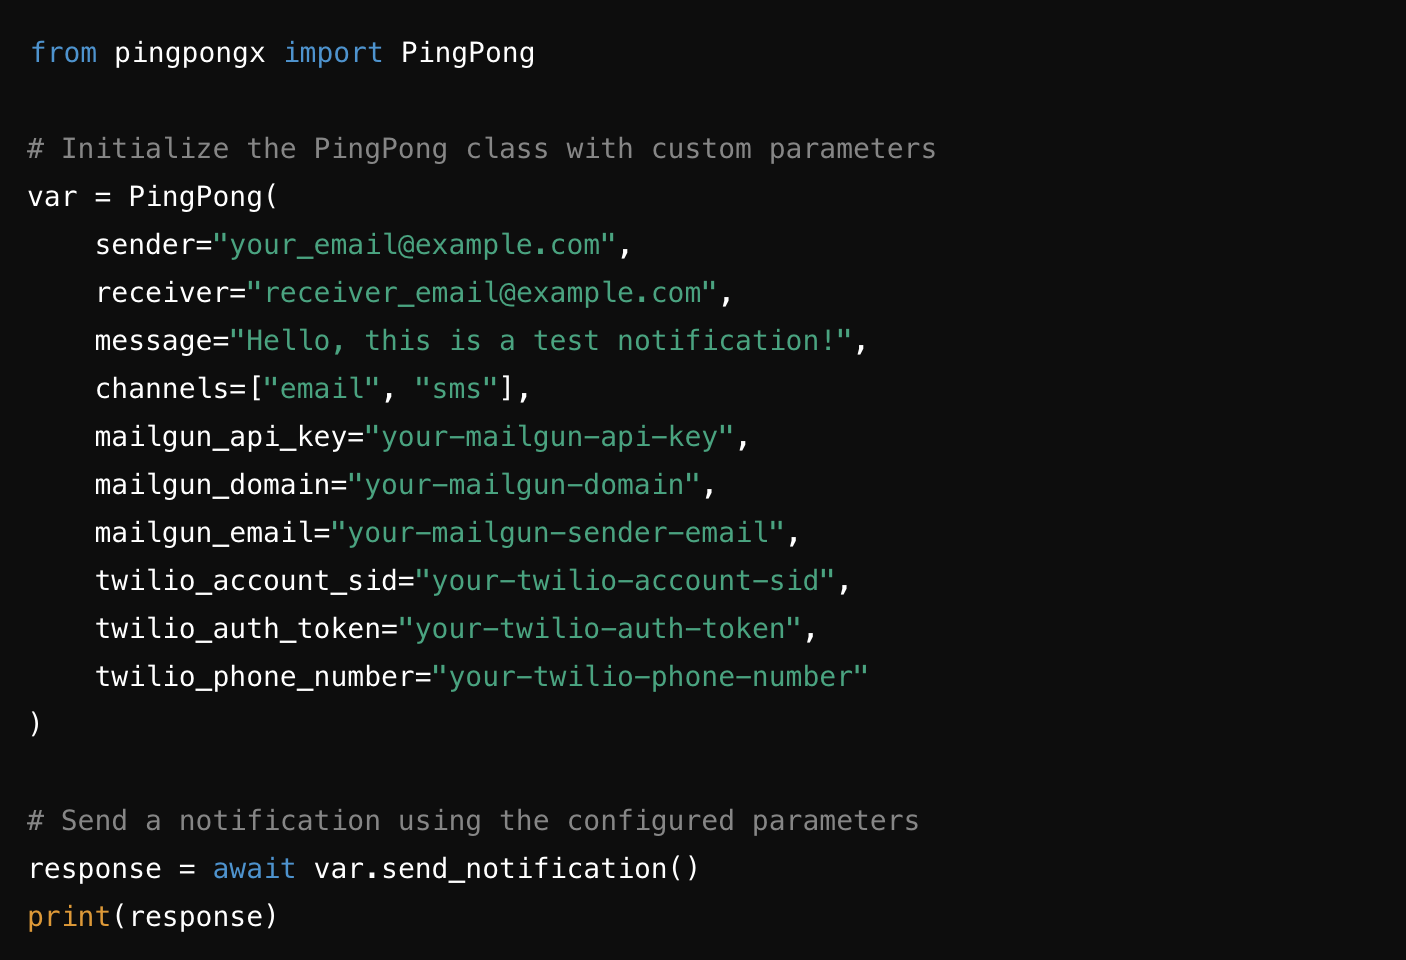
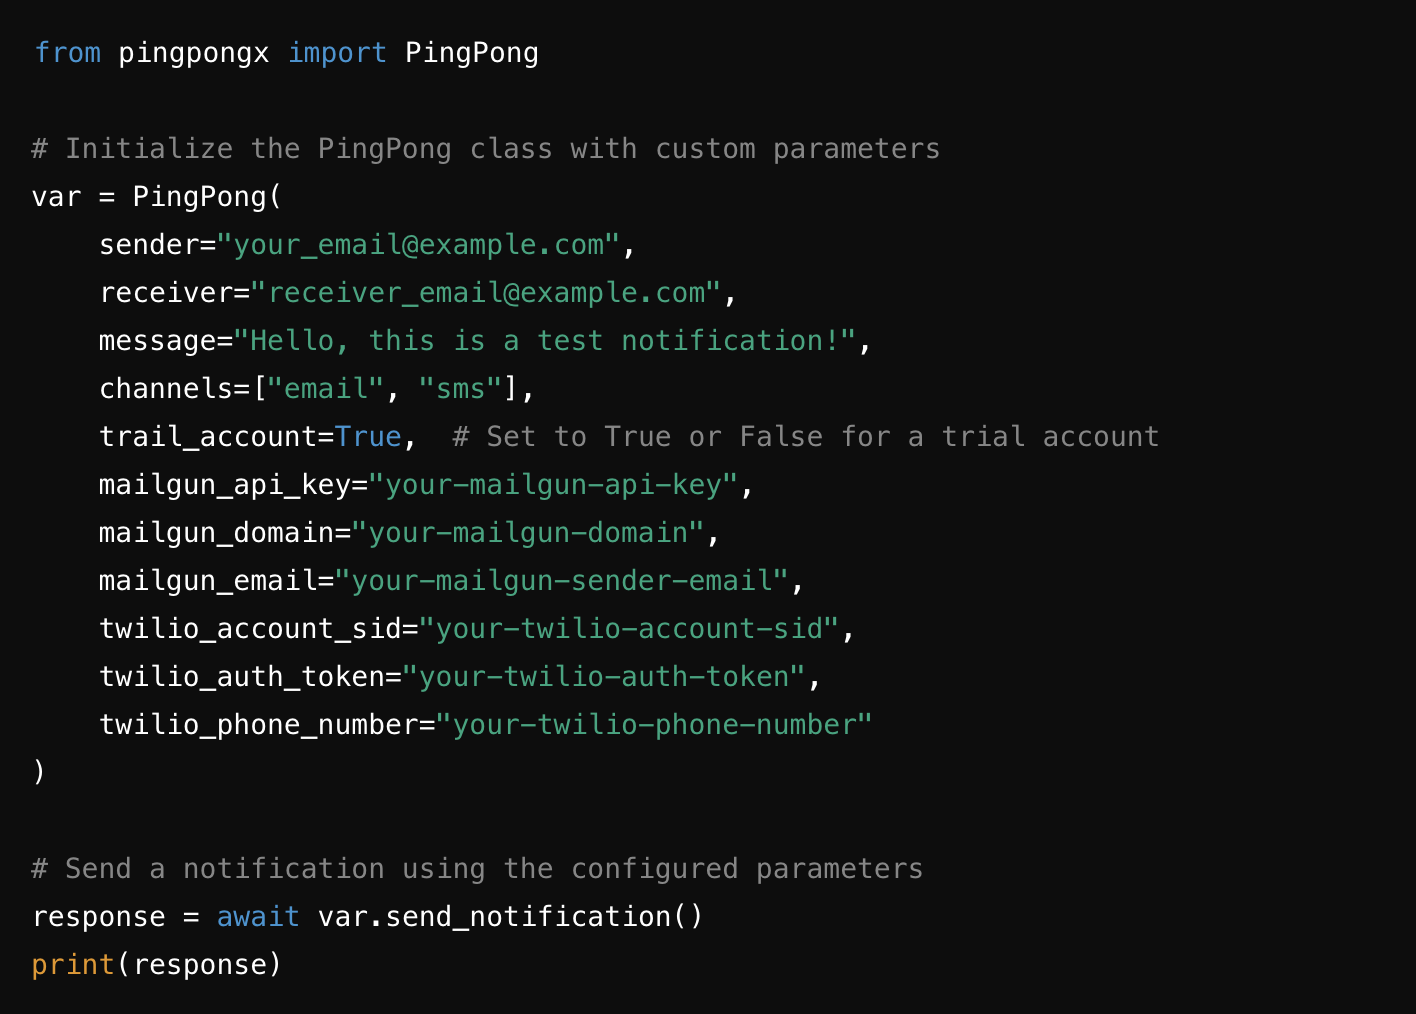
code updated with trail feature

diff --git a/pingpongx/services/auth_service.py b/pingpongx/services/auth_service.py
@@ -108,15 +108,30 @@ def sender_record(sender: str, channel: str = None):
         user_ref = db.collection("sender_record").document(doc_key)
         user_data = user_ref.get()
         count = 1
+        current_time = datetime.datetime.utcnow()
 
         if user_data.exists:
             user_data = user_data.to_dict()
-            count = user_data["count"]
-            if channel == "email" and count < 3 or channel == "sms" and count < 2:
+            last_updated = user_data.get("last_updated", None)
+
+            if last_updated:
+                last_updated_time = datetime.datetime.fromisoformat(last_updated)
+                time_difference = abs(current_time - last_updated_time)
+                print("FLAG: ", time_difference.total_seconds() > 48 * 3600)
+                if time_difference.total_seconds() > 48 * 3600:  # 48 hours in seconds
+                    print("TIME TO SET 1 again")
+                    count = 1  # Reset count if more than 48 hours
+                else:
+                    count = user_data["count"] + 1
+            else:
+                count = user_data["count"] + 1
+
+            if channel == "email" and count < 5 or channel == "sms" and count < 2:
                 user_ref.set({
                     "username": sender,
                     "channel": channel,
-                    "count": count+1
+                    "count": count,
+                    "last_updated": datetime.datetime.utcnow().isoformat() if count == 1 else last_updated
                 })
                 return {"message": "done", "success": True}
             else:
@@ -125,7 +140,8 @@ def sender_record(sender: str, channel: str = None):
             user_ref.set({
                 "username": sender,
                 "channel": channel,
-                "count": count
+                "count": count,
+                "last_updated": datetime.datetime.utcnow().isoformat()
             })
             return {"message": "done", "success": True}
 
@@ -138,12 +154,24 @@ def get_sender_record(sender: str, channel: str = None):
         if channel is None or channel not in ["email", "sms"]:
             return None
 
+        current_time = datetime.datetime.utcnow()
         doc_key = sender + "_" + channel
         user_ref = db.collection("sender_record").document(doc_key)
         user_data = user_ref.get()
         if user_data.exists:
             user_data = user_data.to_dict()
-            return user_data["count"]
+            last_updated = user_data.get("last_updated", None)
+
+            if last_updated:
+                last_updated_time = datetime.datetime.fromisoformat(last_updated)
+                time_difference = abs(current_time - last_updated_time)
+                if time_difference.total_seconds() > 48 * 3600:  # 48 hours in seconds
+                    count = 1   # Reset count if more than 48 hours
+                else:
+                    count = user_data["count"]
+            else:
+                count = user_data["count"]
+            return count
         return 1
 
     except Exception:

diff --git a/pingpongx/services/email_service.py b/pingpongx/services/email_service.py
@@ -26,7 +26,6 @@ class MailgunEmailService:
                 auth=("api", self.mailgun_api_key),
                 data=data
             )
-            print("RES: ", response.text)
             if response.status_code == 200:
                 print(f"Email sent successfully to {to_emails} with status code: {response.status_code}\n-----------------------------------\n")
                 return True, response.status_code

diff --git a/README.md b/README.md
@@ -37,7 +37,8 @@ PingPong is a robust, scalable, and highly customizable **Dynamic Notification D
 
 ### 🛠 **User-Friendly**
 - Easy-to-use interface with a class-based design for sending notifications.
-- Support for configurable parameters, including sender, receiver, and notification channels.
+- You can opt for trail account for sending 3 emails and 1 sms/48 hours.
+- Support for configurable parameters, including sender, receiver, notification channels & API/Auth Keys.
 - Integration with popular services like Mailgun (for email) and Twilio (for SMS).
 - Future-ready: Additional notification services will be supported in upcoming updates.
 - Fully customizable by passing API Keys and Auth Tokens.
